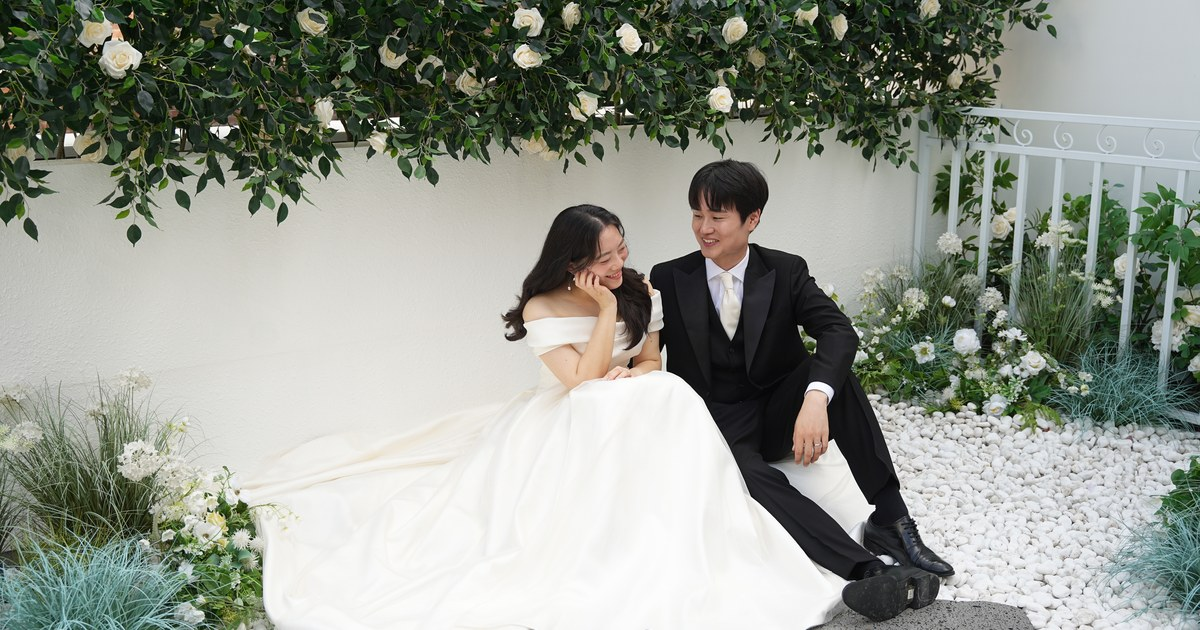
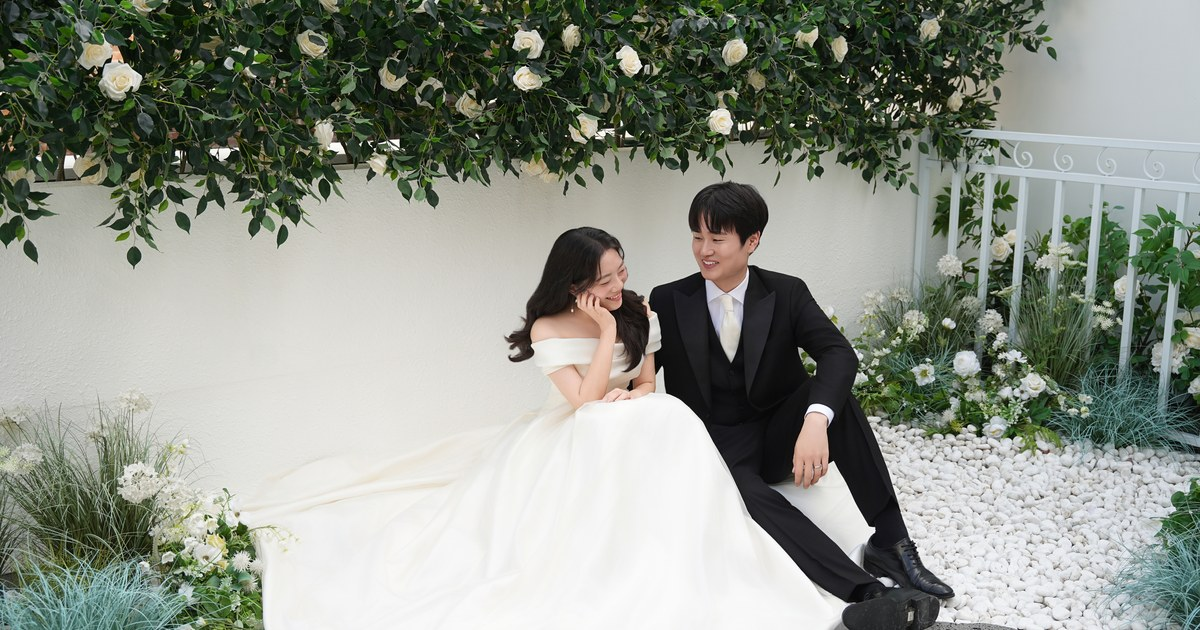
청첩장 사진과 계좌 화면 개선

diff --git a/wedding-invitation/src/config/wedding.ts b/wedding-invitation/src/config/wedding.ts
@@ -63,8 +63,12 @@ export const wedding: WeddingConfig = {
     parking: ['교통회관 지상·지하 주차장 이용'],
   },
   accounts: {
-    groom: [{ bank: '신한은행', holder: '한영신', number: '110-467-266513' }],
-    bride: [{ bank: '우리은행', holder: '이다예', number: '1002-353-385470' }],
+    groom: [{ bank: '신한은행', relation: '신랑', holder: '한영신', number: '110-467-266513' }],
+    bride: [
+      { bank: '우리은행', relation: '신부', holder: '이다예', number: '1002-353-385470' },
+      { bank: '우리은행', relation: '신부 어머니', holder: '오영근', number: '1002-230-989004' },
+      { bank: '신한은행', relation: '신부 아버지', holder: '이성환', number: '110-360-443299' },
+    ],
   },
   rsvp: { enabled: false, maxCompanions: 5 },
   guestSnap: {
@@ -76,7 +80,7 @@ export const wedding: WeddingConfig = {
   },
   gallery: {
     hero: {
-      src: '/images/wedding/cover.webp',
+      src: '/images/wedding/photo-08.webp',
       alt: '한영신과 이다예의 웨딩 대표 사진',
     },
     baby: [
@@ -93,39 +97,75 @@ export const wedding: WeddingConfig = {
     ],
     wedding: [
       {
-        src: '/images/wedding/opening.webp',
-        alt: '정원에서 함께 웃는 한영신과 이다예',
-        layout: 'wide',
+        src: '/images/wedding/photo-08.webp',
+        alt: '아치 앞에 나란히 선 한영신과 이다예',
       },
       {
-        src: '/images/wedding/bride.webp',
-        alt: '웨딩드레스를 입은 이다예',
-        layout: 'half',
+        src: '/images/wedding/photo-09.webp',
+        alt: '장난스럽게 웃는 한영신과 이다예',
       },
       {
-        src: '/images/wedding/groom.webp',
-        alt: '부케를 든 한영신',
-        layout: 'half',
+        src: '/images/wedding/photo-10.webp',
+        alt: '꽃으로 둘러싸인 소파에 앉은 이다예',
       },
       {
-        src: '/images/wedding/laugh.webp',
-        alt: '함께 웃는 한영신과 이다예',
+        src: '/images/wedding/photo-11.webp',
+        alt: '꽃으로 둘러싸인 소파에 앉은 한영신',
       },
       {
-        src: '/images/wedding/veil.webp',
-        alt: '베일 아래 마주 보는 한영신과 이다예',
+        src: '/images/wedding/photo-12.webp',
+        alt: '창가에서 웨딩드레스를 펼친 이다예',
       },
       {
-        src: '/images/wedding/street.webp',
-        alt: '벽돌길에서 마주 선 한영신과 이다예',
-        layout: 'wide',
+        src: '/images/wedding/photo-13.webp',
+        alt: '베일 너머 마주 보는 한영신과 이다예',
       },
       {
-        src: '/images/wedding/red-dance.webp',
-        alt: '정원에서 춤추는 한영신과 이다예',
+        src: '/images/wedding/photo-14.webp',
+        alt: '꽃 장식 앞에 나란히 앉은 한영신과 이다예',
       },
       {
-        src: '/images/wedding/red-laugh.webp',
+        src: '/images/wedding/photo-15.webp',
+        alt: '슬림 웨딩드레스의 뒷모습을 보이는 이다예',
+      },
+      {
+        src: '/images/wedding/photo-04.webp',
+        alt: '검은 의상을 입고 나란히 선 한영신과 이다예',
+      },
+      {
+        src: '/images/wedding/photo-05.webp',
+        alt: '벽돌 담장 앞에 마주 선 한영신과 이다예',
+      },
+      {
+        src: '/images/wedding/photo-07.webp',
+        alt: '벽돌 담장 앞에서 함께 웃는 한영신과 이다예',
+      },
+      {
+        src: '/images/wedding/photo-06.webp',
+        alt: '손을 잡고 걷는 한영신과 이다예의 흑백 사진',
+      },
+      {
+        src: '/images/wedding/photo-01.webp',
+        alt: '부케를 든 웨딩드레스 차림의 이다예',
+      },
+      {
+        src: '/images/wedding/photo-02.webp',
+        alt: '부케를 든 턱시도 차림의 한영신',
+      },
+      {
+        src: '/images/wedding/photo-03.webp',
+        alt: '정원에서 함께 앉아 있는 한영신과 이다예',
+      },
+      {
+        src: '/images/wedding/photo-16.webp',
+        alt: '붉은 드레스를 입고 장난스럽게 포즈를 취한 한영신과 이다예',
+      },
+      {
+        src: '/images/wedding/photo-17.webp',
+        alt: '정원에서 붉은 드레스를 입고 마주 선 한영신과 이다예',
+      },
+      {
+        src: '/images/wedding/photo-18.webp',
         alt: '베일 아래 함께 웃는 한영신과 이다예',
       },
     ],

diff --git a/wedding-invitation/src/components/ImageViewer.test.tsx b/wedding-invitation/src/components/ImageViewer.test.tsx
@@ -1,0 +1,62 @@
+import { fireEvent, render, screen } from '@testing-library/react'
+import { describe, expect, it, vi } from 'vitest'
+
+import { ImageViewer } from './ImageViewer'
+
+const images = [
+  { src: '/first.webp', alt: '첫 번째 사진' },
+  { src: '/second.webp', alt: '두 번째 사진' },
+]
+
+describe('ImageViewer', () => {
+  it('does not move photos when a pinch gesture ends', () => {
+    const onMove = vi.fn()
+    render(<ImageViewer images={images} index={0} onMove={onMove} onClose={vi.fn()} />)
+    const viewer = screen.getByRole('dialog', { name: '사진 크게 보기' })
+
+    fireEvent.touchStart(viewer, {
+      touches: [{ clientX: 90, clientY: 200 }, { clientX: 210, clientY: 200 }],
+      changedTouches: [{ clientX: 90, clientY: 200 }, { clientX: 210, clientY: 200 }],
+    })
+    fireEvent.touchEnd(viewer, {
+      touches: [],
+      changedTouches: [{ clientX: 190, clientY: 200 }, { clientX: 110, clientY: 200 }],
+    })
+
+    expect(onMove).not.toHaveBeenCalled()
+  })
+
+  it('moves photos for a single-finger horizontal swipe', () => {
+    const onMove = vi.fn()
+    render(<ImageViewer images={images} index={0} onMove={onMove} onClose={vi.fn()} />)
+    const viewer = screen.getByRole('dialog', { name: '사진 크게 보기' })
+
+    fireEvent.touchStart(viewer, {
+      touches: [{ clientX: 220, clientY: 200 }],
+      changedTouches: [{ clientX: 220, clientY: 200 }],
+    })
+    fireEvent.touchEnd(viewer, {
+      touches: [],
+      changedTouches: [{ clientX: 120, clientY: 205 }],
+    })
+
+    expect(onMove).toHaveBeenCalledWith(1)
+  })
+
+  it('does not move photos for a mostly vertical drag', () => {
+    const onMove = vi.fn()
+    render(<ImageViewer images={images} index={0} onMove={onMove} onClose={vi.fn()} />)
+    const viewer = screen.getByRole('dialog', { name: '사진 크게 보기' })
+
+    fireEvent.touchStart(viewer, {
+      touches: [{ clientX: 160, clientY: 100 }],
+      changedTouches: [{ clientX: 160, clientY: 100 }],
+    })
+    fireEvent.touchEnd(viewer, {
+      touches: [],
+      changedTouches: [{ clientX: 220, clientY: 260 }],
+    })
+
+    expect(onMove).not.toHaveBeenCalled()
+  })
+})

diff --git a/wedding-invitation/src/components/ImageViewer.tsx b/wedding-invitation/src/components/ImageViewer.tsx
@@ -11,7 +11,8 @@ type ImageViewerProps = {
 }
 
 export function ImageViewer({ images, index, onClose, onMove }: ImageViewerProps) {
-  const touchStart = useRef<number | null>(null)
+  const touchStart = useRef<{ x: number; y: number } | null>(null)
+  const multiTouchGesture = useRef(false)
   const current = images[index]
   const move = (offset: number) => onMove((index + offset + images.length) % images.length)
 
@@ -37,11 +38,39 @@ export function ImageViewer({ images, index, onClose, onMove }: ImageViewerProps
       aria-modal="true"
       aria-label="사진 크게 보기"
       onMouseDown={(event) => event.target === event.currentTarget && onClose()}
-      onTouchStart={(event) => { touchStart.current = event.changedTouches[0].clientX }}
+      onTouchStart={(event) => {
+        if (event.touches.length !== 1) {
+          multiTouchGesture.current = true
+          touchStart.current = null
+          return
+        }
+        if (multiTouchGesture.current) return
+        const touch = event.touches[0]
+        touchStart.current = { x: touch.clientX, y: touch.clientY }
+      }}
+      onTouchMove={(event) => {
+        if (event.touches.length > 1) {
+          multiTouchGesture.current = true
+          touchStart.current = null
+        }
+      }}
       onTouchEnd={(event) => {
+        if (multiTouchGesture.current) {
+          if (event.touches.length === 0) multiTouchGesture.current = false
+          touchStart.current = null
+          return
+        }
         if (touchStart.current === null) return
-        const distance = event.changedTouches[0].clientX - touchStart.current
-        if (Math.abs(distance) > 45) move(distance > 0 ? -1 : 1)
+        const touch = event.changedTouches[0]
+        const distanceX = touch.clientX - touchStart.current.x
+        const distanceY = touch.clientY - touchStart.current.y
+        if (Math.abs(distanceX) > 45 && Math.abs(distanceX) > Math.abs(distanceY) * 1.2) {
+          move(distanceX > 0 ? -1 : 1)
+        }
+        touchStart.current = null
+      }}
+      onTouchCancel={() => {
+        multiTouchGesture.current = false
         touchStart.current = null
       }}
     >

diff --git a/wedding-invitation/src/components/Details.test.tsx b/wedding-invitation/src/components/Details.test.tsx
@@ -47,11 +47,17 @@ describe('wedding details', () => {
     expect(screen.queryByRole('heading', { name: '참석 여부 전달' })).not.toBeInTheDocument()
     expect(screen.getByText('신랑측')).toBeInTheDocument()
     expect(screen.getByText('신부측')).toBeInTheDocument()
-    expect(screen.getByText('신한은행 · 한영신')).toBeInTheDocument()
-    expect(screen.getByText('110-467-266513')).toBeInTheDocument()
-    expect(screen.getByText('우리은행 · 이다예')).toBeInTheDocument()
-    expect(screen.getByText('1002-353-385470')).toBeInTheDocument()
+    expect(screen.getByText('신한은행 110-467-266513')).toBeInTheDocument()
+    expect(screen.getByText('신랑 한영신', { selector: '.account-meta' })).toBeInTheDocument()
+    expect(screen.getByText('우리은행 1002-353-385470')).toBeInTheDocument()
+    expect(screen.getByText('신부 이다예', { selector: '.account-meta' })).toBeInTheDocument()
     expect(screen.getByRole('button', { name: '신부 이다예 계좌번호 복사' })).toBeVisible()
+    expect(screen.getByText('우리은행 1002-230-989004')).toBeInTheDocument()
+    expect(screen.getByText('신부 어머니 오영근', { selector: '.account-meta' })).toBeInTheDocument()
+    expect(screen.getByRole('button', { name: '신부 어머니 오영근 계좌번호 복사' })).toBeVisible()
+    expect(screen.getByText('신한은행 110-360-443299')).toBeInTheDocument()
+    expect(screen.getByText('신부 아버지 이성환', { selector: '.account-meta' })).toBeInTheDocument()
+    expect(screen.getByRole('button', { name: '신부 아버지 이성환 계좌번호 복사' })).toBeVisible()
     expect(container.querySelector('details')).not.toBeInTheDocument()
     expect(screen.getByText('화환은 정중히 사양하오니 너른 양해 부탁드립니다.')).toBeInTheDocument()
     expect(screen.queryByText('참석 여부 전달은 추후 오픈됩니다')).not.toBeInTheDocument()

diff --git a/wedding-invitation/src/components/PendingDetails.tsx b/wedding-invitation/src/components/PendingDetails.tsx
@@ -5,11 +5,9 @@ import type { Account } from '../types/wedding'
 import { SectionHeading } from './SectionHeading'
 
 function AccountGroup({
-  side,
   label,
   accounts,
 }: {
-  side: '신랑' | '신부'
   label: string
   accounts: Account[]
 }) {
@@ -27,12 +25,12 @@ function AccountGroup({
       <div className="account-items">
         {accounts.map((account, index) => (
           <div className="account-row" key={`${account.bank}-${account.number}`}>
-            <div>
-              <p className="account-meta">{account.bank} · {account.holder}</p>
-              <p className="account-number">{account.number}</p>
+            <div className="account-info">
+              <p className="account-number">{account.bank} {account.number}</p>
+              <p className="account-meta">{account.relation} {account.holder}</p>
             </div>
             <button
-              aria-label={`${side} ${account.holder} 계좌번호 복사`}
+              aria-label={`${account.relation} ${account.holder} 계좌번호 복사`}
               className="account-copy-button"
               onClick={() => void handleCopy(account, index)}
               type="button"
@@ -51,8 +49,8 @@ export function PendingDetails() {
     <section className="paper-section account-section reveal-section">
       <SectionHeading eyebrow="ACCOUNT" title="♥ 마음 전하실 곳 ♥" />
       <div className="account-list">
-        <AccountGroup side="신랑" label="신랑측" accounts={wedding.accounts.groom} />
-        <AccountGroup side="신부" label="신부측" accounts={wedding.accounts.bride} />
+        <AccountGroup label="신랑측" accounts={wedding.accounts.groom} />
+        <AccountGroup label="신부측" accounts={wedding.accounts.bride} />
       </div>
       <p className="account-notice">화환은 정중히 사양하오니 너른 양해 부탁드립니다.</p>
     </section>

diff --git a/wedding-invitation/src/components/Gallery.test.tsx b/wedding-invitation/src/components/Gallery.test.tsx
@@ -8,15 +8,16 @@ import { Gallery } from './Gallery'
 describe('Gallery', () => {
   it('shows every wedding photo in a compact thumbnail grid', () => {
     const { container } = render(<Gallery gallery={wedding.gallery} />)
+    const expectedOrder = [8, 9, 10, 11, 12, 13, 14, 15, 4, 5, 7, 6, 1, 2, 3, 16, 17, 18]
+      .map((number) => `/images/wedding/photo-${String(number).padStart(2, '0')}.webp`)
 
     expect(screen.getByAltText('신랑 한영신의 어린 시절')).toBeInTheDocument()
     expect(screen.getByAltText('신부 이다예의 어린 시절')).toBeInTheDocument()
     expect(screen.getByRole('heading', { name: '오늘의 우리' })).toBeInTheDocument()
-    expect(screen.getByAltText('정원에서 함께 웃는 한영신과 이다예')).toBeInTheDocument()
-    expect(screen.getByAltText('베일 아래 마주 보는 한영신과 이다예')).toBeInTheDocument()
-    expect(screen.getByAltText('베일 아래 함께 웃는 한영신과 이다예')).toBeInTheDocument()
-    expect(container.querySelectorAll('.wedding-thumbnail')).toHaveLength(wedding.gallery.wedding.length)
-    expect(container.querySelector('.wedding-photo-grid')).toBeInTheDocument()
+    expect(wedding.gallery.hero.src).toBe('/images/wedding/photo-08.webp')
+    expect(wedding.gallery.wedding.map((image) => image.src)).toEqual(expectedOrder)
+    expect(container.querySelectorAll('.wedding-thumbnail')).toHaveLength(18)
+    expect(container.querySelector('.wedding-photo-grid')).toHaveAttribute('data-layout', '3x6')
     expect(screen.queryByText('TO BE CONTINUED...')).not.toBeInTheDocument()
     expect(screen.queryByText('Wedding photos coming soon')).not.toBeInTheDocument()
   })

diff --git a/wedding-invitation/src/App.test.tsx b/wedding-invitation/src/App.test.tsx
@@ -18,7 +18,7 @@ describe('wedding content', () => {
     expect(screen.getByText('한성용 · 황진심의 아들')).toBeInTheDocument()
     expect(screen.getByText('이성환 · 오영근의 딸')).toBeInTheDocument()
     expect(screen.getByText('신부 이다예,').closest('strong')).toBeNull()
-    expect(screen.getByText('신랑 한영신').closest('strong')).toBeNull()
+    expect(screen.getByText('신랑 한영신', { selector: '.hero-person' }).closest('strong')).toBeNull()
     expect(screen.queryByRole('heading', { name: '두 사람을 소개합니다' })).not.toBeInTheDocument()
     expect(screen.queryByRole('heading', { name: '예식 일정' })).not.toBeInTheDocument()
     expect(screen.queryByRole('link', { name: /에게 전화/ })).not.toBeInTheDocument()

diff --git a/wedding-invitation/src/index.css b/wedding-invitation/src/index.css
@@ -286,7 +286,7 @@ img {
 }
 
 .wedding-gallery-section {
-  padding-inline: 18px;
+  padding-inline: 10px;
   background: rgba(239, 234, 221, 0.32);
 }
 
@@ -296,8 +296,8 @@ img {
 
 .wedding-photo-grid {
   display: grid;
-  grid-template-columns: repeat(2, minmax(0, 1fr));
-  gap: 7px;
+  grid-template-columns: repeat(3, minmax(0, 1fr));
+  gap: 5px;
 }
 
 .wedding-thumbnail {
@@ -709,16 +709,22 @@ img {
   margin: 0;
 }
 
+.account-info {
+  flex: 1 1 auto;
+  min-width: 0;
+}
+
 .account-meta {
+  margin-top: 4px !important;
   color: var(--ink-soft);
   font-size: 0.7rem;
 }
 
 .account-number {
-  margin-top: 4px !important;
   color: var(--ink);
   font-size: 0.84rem;
   letter-spacing: 0.025em;
+  white-space: nowrap;
 }
 
 .account-copy-button {

diff --git a/wedding-invitation/src/components/Gallery.tsx b/wedding-invitation/src/components/Gallery.tsx
@@ -38,7 +38,7 @@ export function Gallery({ gallery }: GalleryProps) {
 
       <section className="paper-section wedding-gallery-section reveal-section">
         <SectionHeading eyebrow="WEDDING GALLERY" title="오늘의 우리" />
-        <div className="wedding-photo-grid">
+        <div className="wedding-photo-grid" data-layout="3x6">
           {gallery.wedding.map((image, index) => (
             <button
               type="button"

diff --git a/wedding-invitation/src/types/wedding.ts b/wedding-invitation/src/types/wedding.ts
@@ -12,6 +12,7 @@ export type GalleryImage = {
 
 export type Account = {
   bank: string
+  relation: string
   holder: string
   number: string
 }
